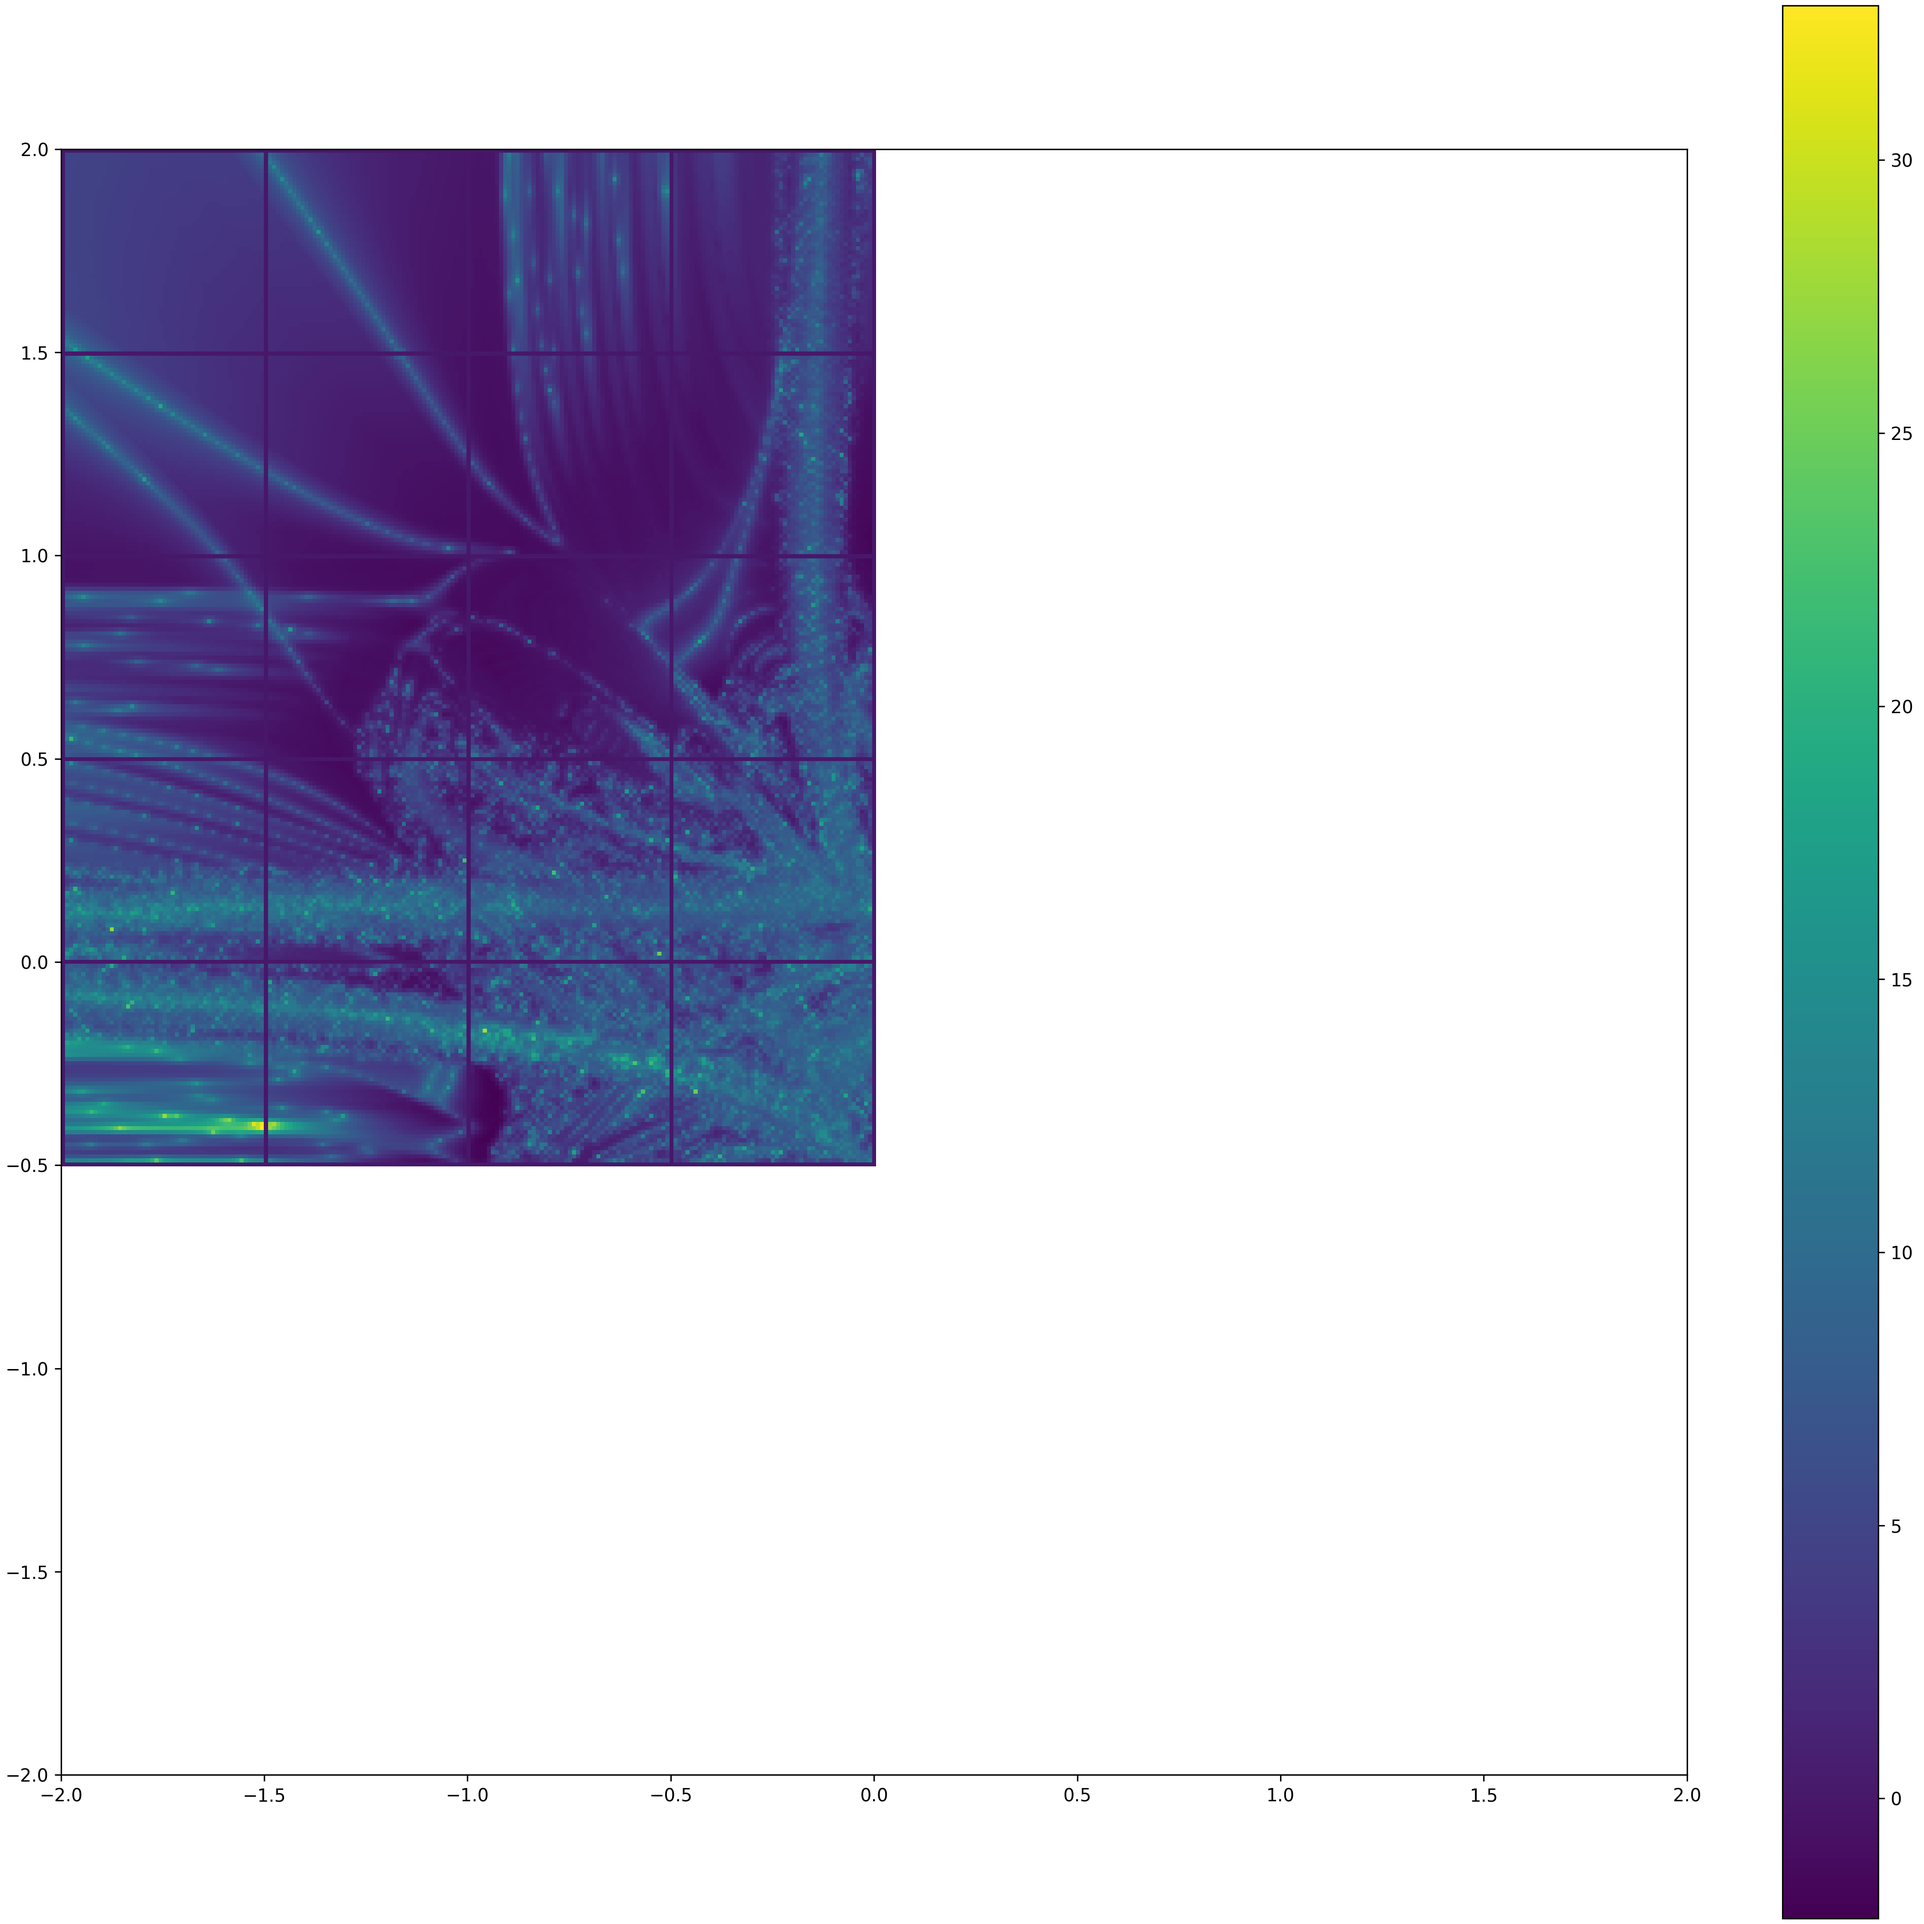
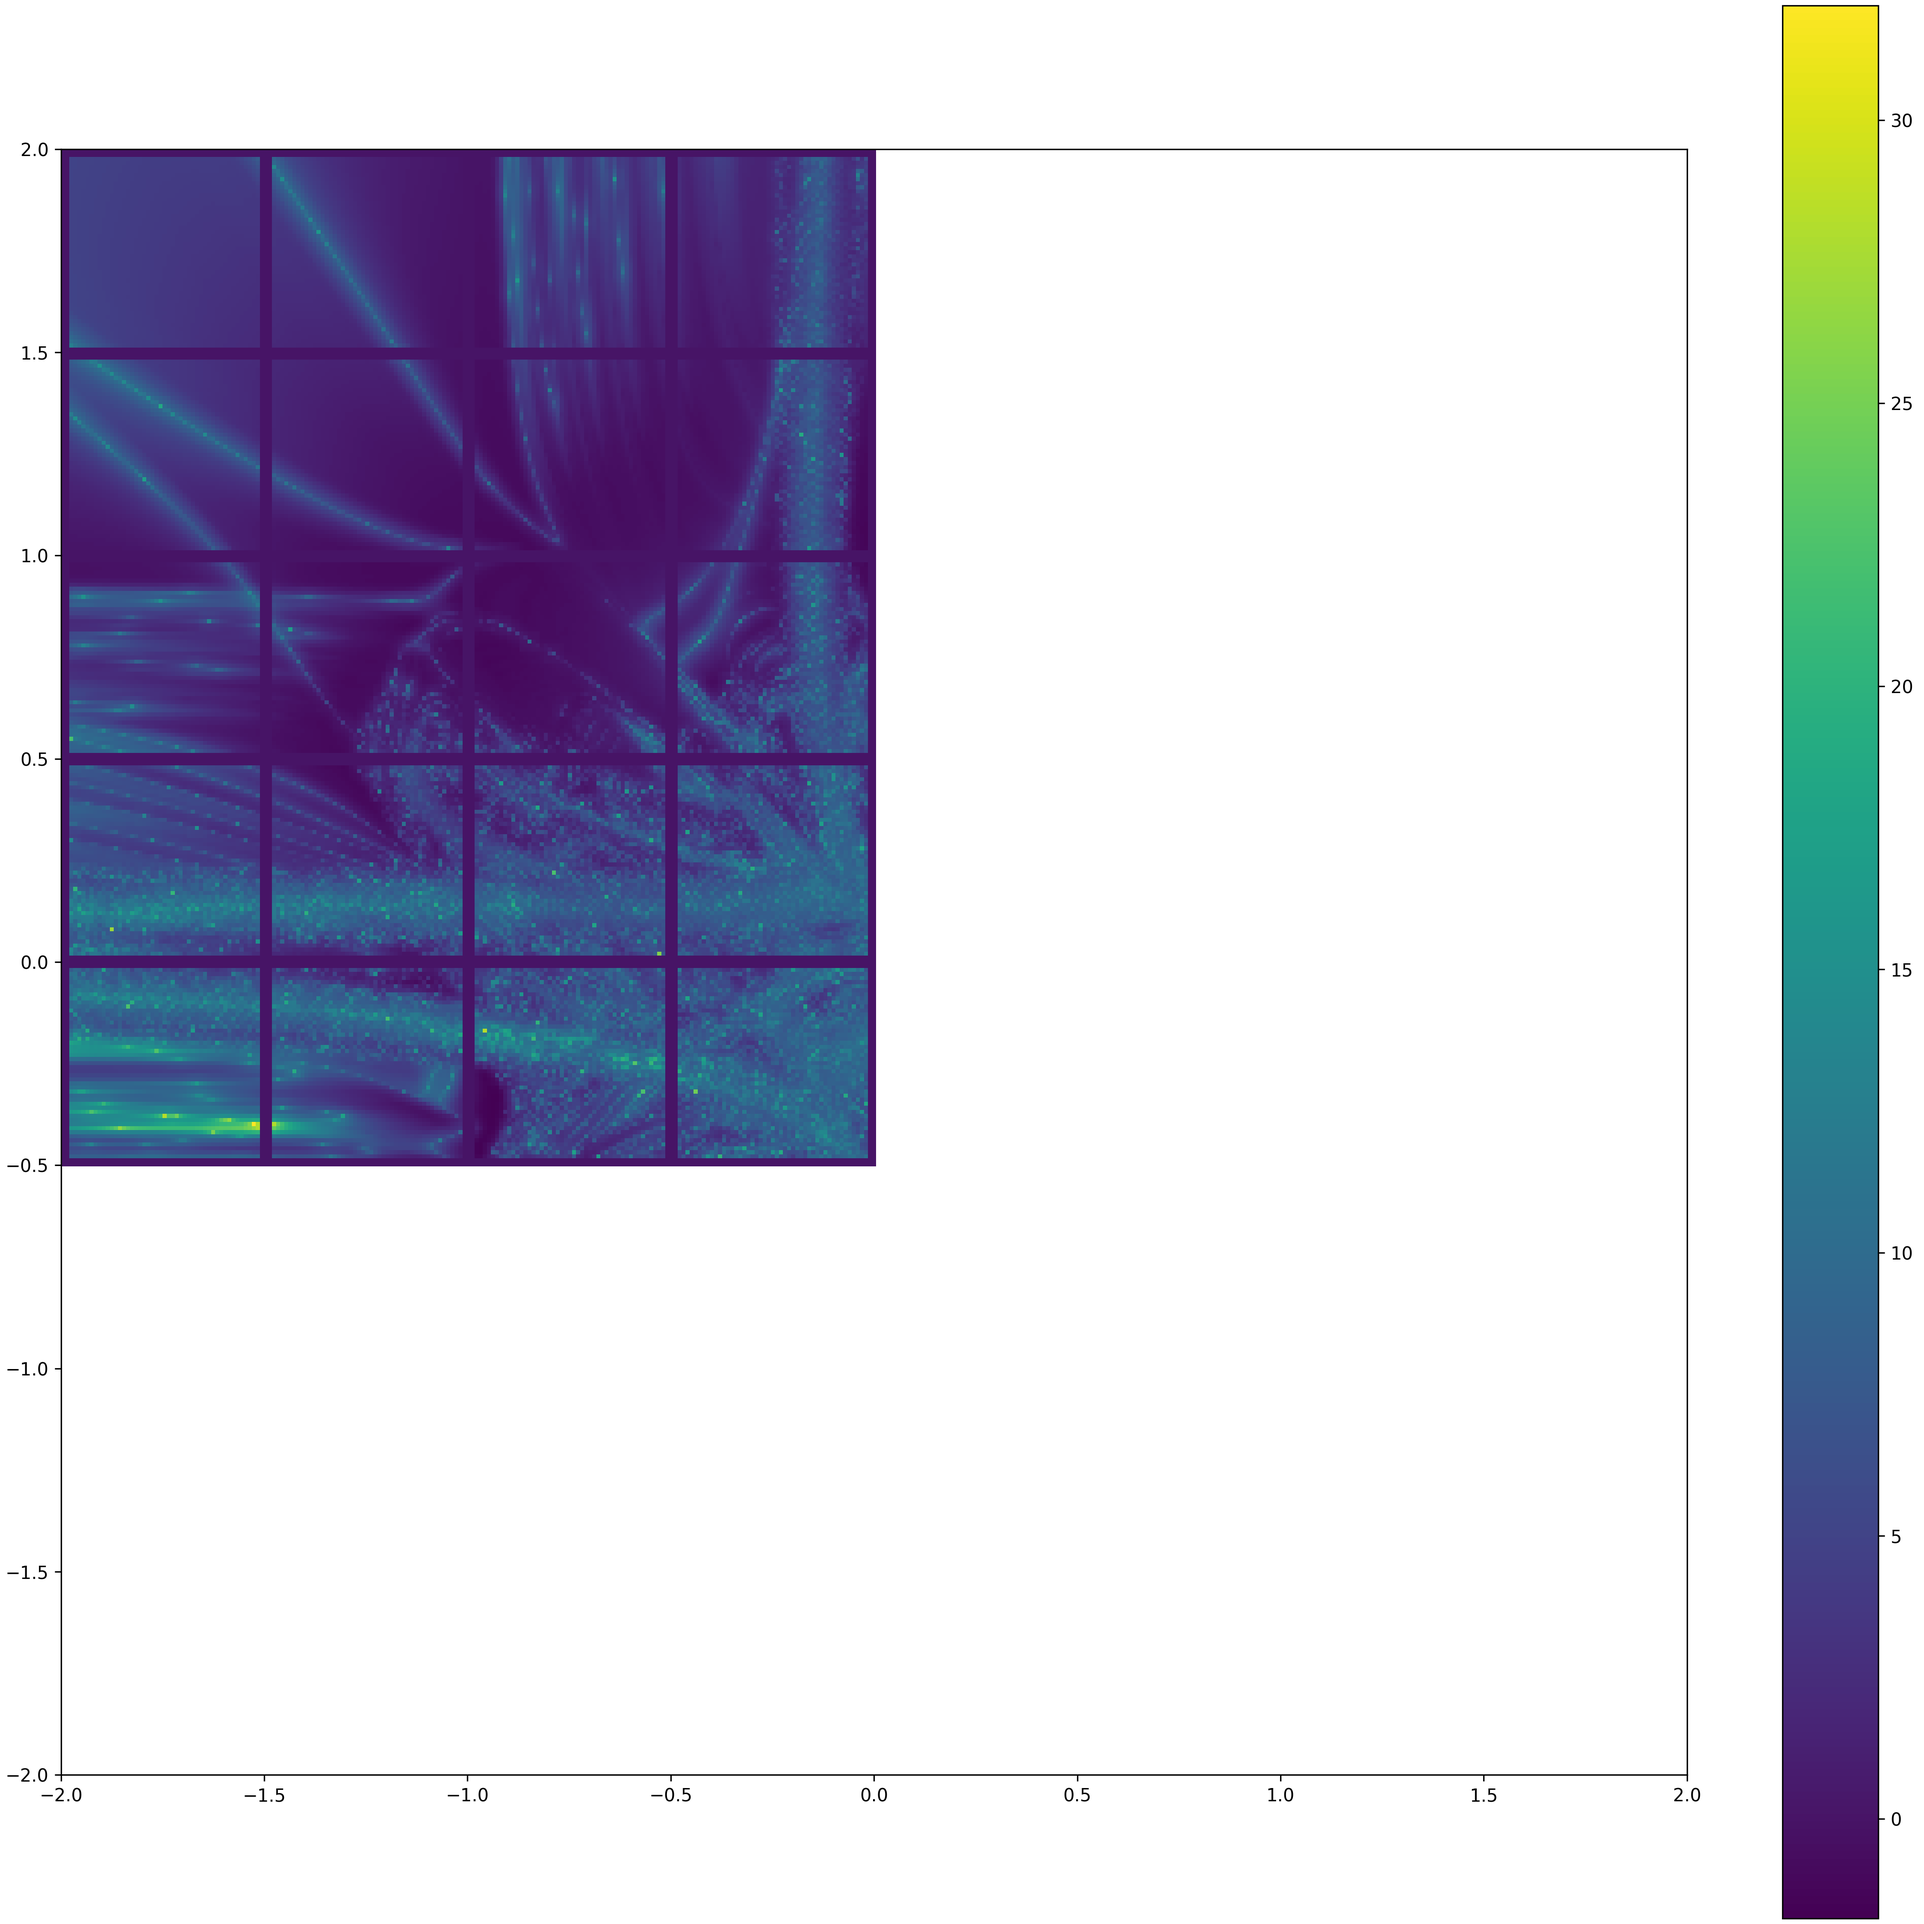
Changes

diff --git a/src/plot_big_grid.py b/src/plot_big_grid.py
@@ -2,13 +2,20 @@ import numpy as np
 
 import matplotlib.pyplot as plt
 
-big_grid_out = np.load("big_grid_out.npy")
+big_grid_out = np.load("big_grid_out_w1.npy")
 
 fig = plt.figure(figsize=(16,15), layout="constrained")
 
 
 big_grid_out = np.delete(big_grid_out, np.arange(50, big_grid_out.shape[0], 50), axis=0)
 big_grid_out = np.delete(big_grid_out, np.arange(50, big_grid_out.shape[0], 50), axis=1)
+
+
+# big_grid_out = np.delete(big_grid_out, [49,50,51,99,100,101], axis=0)
+# big_grid_out = np.delete(big_grid_out, np.arange(49, big_grid_out.shape[0], 51), axis=0)
+# big_grid_out = np.delete(big_grid_out, np.arange(49, big_grid_out.shape[0], 51), axis=0)
+
+
 
 big_grid_out = big_grid_out - np.nanmin(big_grid_out)
 
@@ -72,7 +79,7 @@ plt.close()
 
 fig = plt.figure(figsize=(16, 16))
 ax = fig.add_subplot(111)
-contour = ax.contourf(X, Y, big_grid_out, levels=50, cmap='viridis')
+contour = ax.contourf(X, Y, big_grid_out, levels=25, cmap='viridis')
 ax.set_xlim([-2, 2])
 ax.set_ylim([-2, 2])
 plt.savefig("4_body_orbit_neighbour_similarity_contour.png", dpi=300)

diff --git a/src/stitch_togethor.py b/src/stitch_togethor.py
@@ -30,7 +30,7 @@ def hu_moments_similarity(line1, line2):
 
 
 
-w = 1
+
 
 comb_items = [["-2.0", "-1.5"], ["-1.5", "-1.0"], ["-1.0", "-0.5"], ["-0.5", "0.0"], ["0.0", "0.5"], ["0.5", "1.0"], ["1.0", "1.5"], ["1.5", "2.0"]]
 
@@ -56,7 +56,7 @@ for pair in pairs:
 fig = plt.figure(figsize=(15,15), layout="constrained")
 
 big_grid_out = np.full((401,401), np.nan)
-
+w = 2
 counter = 0
 for xv0, xv1, yv0, yv1 in zip(xv0_li, xv1_li, yv0_li, yv1_li):
     try:
@@ -69,7 +69,7 @@ for xv0, xv1, yv0, yv1 in zip(xv0_li, xv1_li, yv0_li, yv1_li):
                 summer = []
                 
                 for k, neighbour in enumerate(neighbours):
-                    if k != 4:
+                    if (w == 1 and k != 4) or (w == 2 and k !=12):
                         setter = [
                             hu_moments_similarity(grid[i,j,:,0:2], neighbour[:,0:2]),
                             hu_moments_similarity(grid[i,j,:,2:4], neighbour[:,2:4]),
